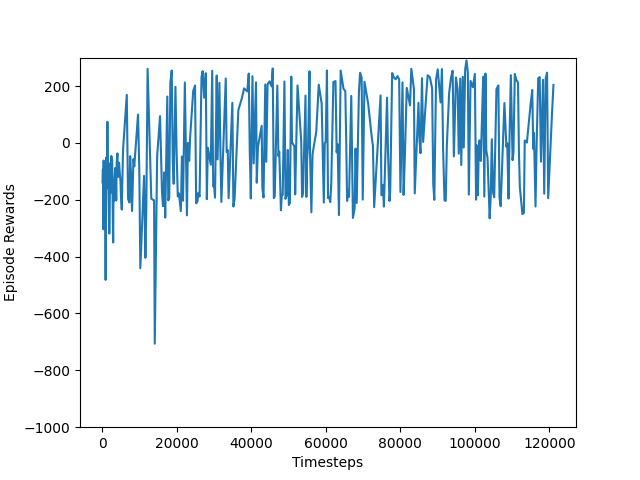
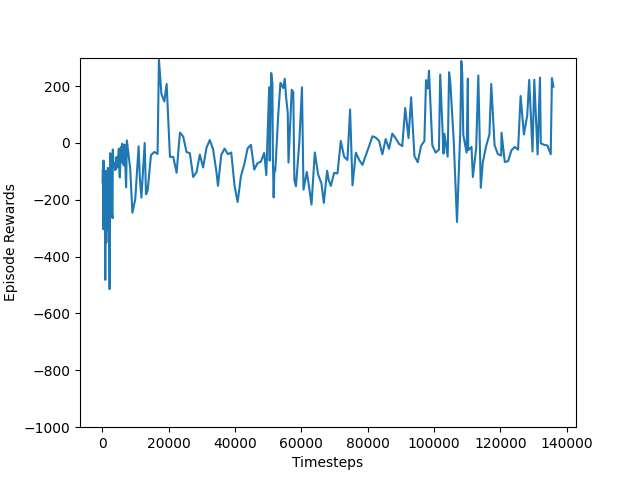
created create.py

Changed region(s): [[0.1562, 0.125, 0.875, 0.7188], [0.2188, 0.9062, 0.9375, 0.9375]]

diff --git a/venv/create.py b/venv/create.py
@@ -1,0 +1,126 @@
+import pygame
+import sys
+
+# Initialize Pygame
+pygame.init()
+
+# Constants
+WIDTH, HEIGHT = 600, 400
+BLACK = (0,0,0)
+WHITE = (255,255,255)
+BACKGROUND_COLOR = BLACK
+SHAPES = []
+PALETTE = []
+
+
+
+def main():
+    screen = pygame.display.set_mode((WIDTH, HEIGHT))
+    screen.fill(BLACK)
+    pygame.display.set_caption("Drag and Drop Shapes")
+    clock = pygame.time.Clock()
+    pygame.draw.circle(screen, WHITE, (100, 100), 30)
+    pygame.display.flip()
+    running = True
+    while running:
+        for event in pygame.event.get():
+            if event.type == pygame.QUIT:
+                running = False
+    
+    clock.tick(60)
+main()
+
+
+'''
+# Shape class
+class Shape:
+    def __init__(self, shape_type, color, position):
+        self.shape_type = shape_type
+        self.color = color
+        self.position = position
+        self.rect = None
+        self.selected = False
+
+    def draw(self, surface):
+        if self.shape_type == 'circle':
+            pygame.draw.circle(surface, self.color, self.position, 30)
+            self.rect = pygame.Rect(self.position[0] - 30, self.position[1] - 30, 60, 60)
+        elif self.shape_type == 'square':
+            pygame.draw.rect(surface, self.color, (self.position[0] - 30, self.position[1] - 30, 60, 60))
+            self.rect = pygame.Rect(self.position[0] - 30, self.position[1] - 30, 60, 60)
+        elif self.shape_type == 'triangle':
+            points = [(self.position[0], self.position[1] - 30), 
+                      (self.position[0] - 30, self.position[1] + 30), 
+                      (self.position[0] + 30, self.position[1] + 30)]
+            pygame.draw.polygon(surface, self.color, points)
+            self.rect = pygame.Rect(self.position[0] - 30, self.position[1] - 30, 60, 60)
+
+# Create palette shapes
+PALETTE.append(Shape('circle', WHITE, (50, 50)))
+PALETTE.append(Shape('square', WHITE, (150, 50)))
+PALETTE.append(Shape('triangle', WHITE, (250, 50)))
+
+# Main loop
+def main():
+    screen = pygame.display.set_mode((WIDTH, HEIGHT))
+    pygame.display.set_caption("Drag and Drop Shapes")
+    clock = pygame.time.Clock()
+    dragging_shape = None
+    dragging_from_palette = None
+
+    while True:
+        screen.fill(BACKGROUND_COLOR)
+
+        for event in pygame.event.get():
+            if event.type == pygame.QUIT:
+                pygame.quit()
+                sys.exit()
+
+            if event.type == pygame.MOUSEBUTTONDOWN:
+                # Check if clicking on palette shapes
+                for shape in PALETTE:
+                    if shape.rect and shape.rect.collidepoint(event.pos):
+                        new_shape = Shape(dragging_from_palette.shape_type, dragging_from_palette.color,event.pos)
+                        SHAPES.append(new_shape)
+                        new_shape.draw()
+                        dragging_from_palette = shape
+                        break
+
+                # Check if clicking on canvas shapes
+                if not dragging_from_palette:
+                    for shape in SHAPES:
+                        if shape.rect and shape.rect.collidepoint(event.pos):
+                            dragging_shape = shape
+                            shape.selected = True
+
+            if event.type == pygame.MOUSEBUTTONUP:
+                if dragging_shape:
+                    dragging_shape.selected = False
+                    dragging_shape = None
+                elif dragging_from_palette:
+                    # Create a new shape from the palette
+                    #new_shape = Shape(dragging_from_palette.shape_type, dragging_from_palette.color, event.pos)
+                    #SHAPES.append(new_shape)
+                    dragging_from_palette = None
+
+            if event.type == pygame.MOUSEMOTION:
+                if dragging_shape:
+                    dragging_shape.position = event.pos
+                elif dragging_from_palette:
+                    # Update position of the shape being dragged from the palette
+                    dragging_from_palette.position = event.pos
+
+        # Draw palette shapes
+        for shape in PALETTE:
+            shape.draw(screen)
+
+        # Draw canvas shapes
+        for shape in SHAPES:
+            shape.draw(screen)
+
+        pygame.display.flip()
+        clock.tick(60)
+
+if __name__ == "__main__":
+    main()
+'''

diff --git a/venv/lander.py b/venv/lander.py
@@ -59,7 +59,7 @@ def render_mp4(videopath: str) -> str:
   return f'<video width=400 controls><source src="data:video/mp4;' \
          f'base64,{base64_encoded_mp4}" type="video/mp4"></video>'
 
-nn_layers = [64, 64, 64]  # This is the configuration of your neural network. Currently, we have two layers, each consisting of 64 neurons.
+nn_layers = [64, 64]  # This is the configuration of your neural network. Currently, we have two layers, each consisting of 64 neurons.
                       # If you want three layers with 64 neurons each, set the value to [64,64,64] and so on.
 
 learning_rate = 0.001  # This is the step-size with which the gradient descent is carried out.
@@ -84,12 +84,12 @@ policy_kwargs = dict(activation_fn=torch.nn.ReLU,
                      net_arch=nn_layers)
 model = DQN("MlpPolicy", env,policy_kwargs = policy_kwargs,
             learning_rate=learning_rate,
-            batch_size=32,  # for simplicity, we are not doing batch update.
+            batch_size=16,  # for simplicity, we are not doing batch update.
             buffer_size=10000,  # size of experience of replay buffer. Set to 1 as batch update is not done
             learning_starts=1000,  # learning starts immediately!
             gamma=0.99,  # discount facto. range is between 0 and 1.
-            tau = .005,  # the soft update coefficient for updating the target network
-            target_update_interval=100,  # update the target network immediately.
+            tau = .05,  # the soft update coefficient for updating the target network
+            target_update_interval=10,  # update the target network immediately.
             train_freq=(4,"step"),  # train the network at every step.
             max_grad_norm = 10,  # the maximum value for the gradient clipping
             exploration_initial_eps = 1,  # initial value of random action probability
@@ -103,9 +103,9 @@ model = DQN("MlpPolicy", env,policy_kwargs = policy_kwargs,
 # for documentation. For example, if you would like to run DDPG, just replace "DQN" above with "DDPG".
 
 env_name = 'LunarLander-v3'
-env = gym.make(env_name)
+env = gym.make(env_name, continuous = True)
 print('State shape: ', env.observation_space.shape)
-print('Number of actions: ', env.action_space.n)
+#print('Number of actions: ', env.action_space.n)
 
 env = gym.make(env_name, render_mode="rgb_array")
 env = gym.wrappers.RecordVideo(
